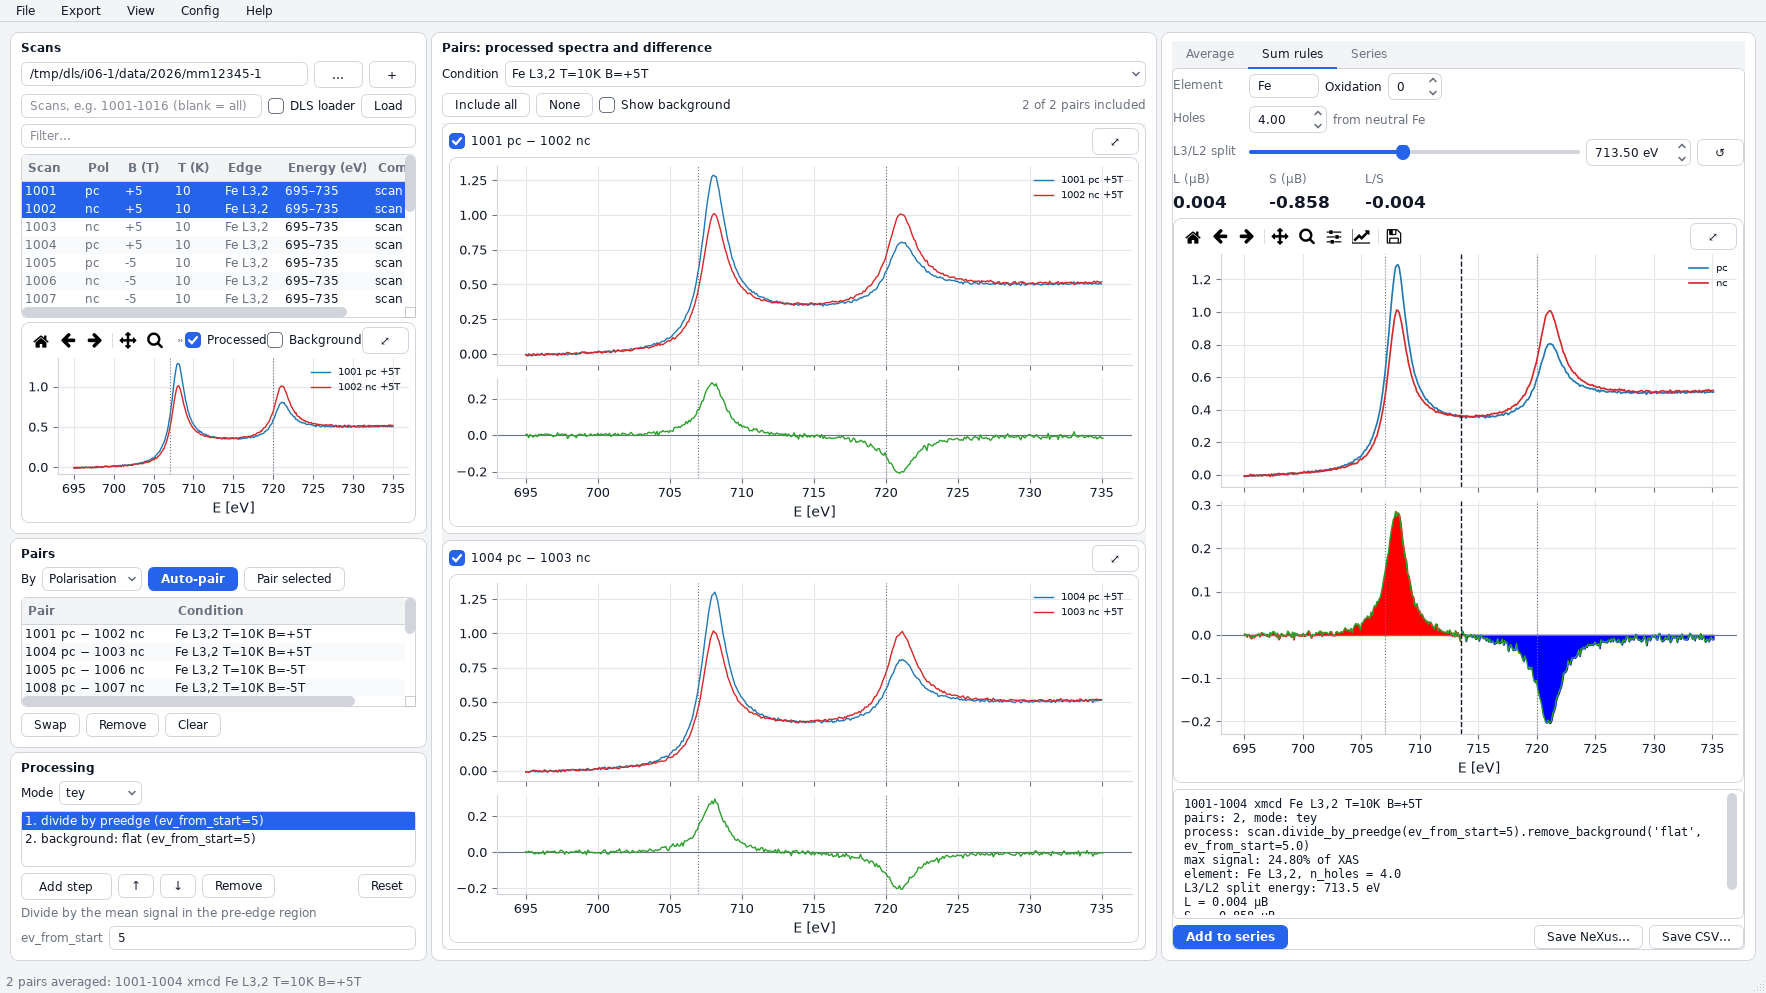
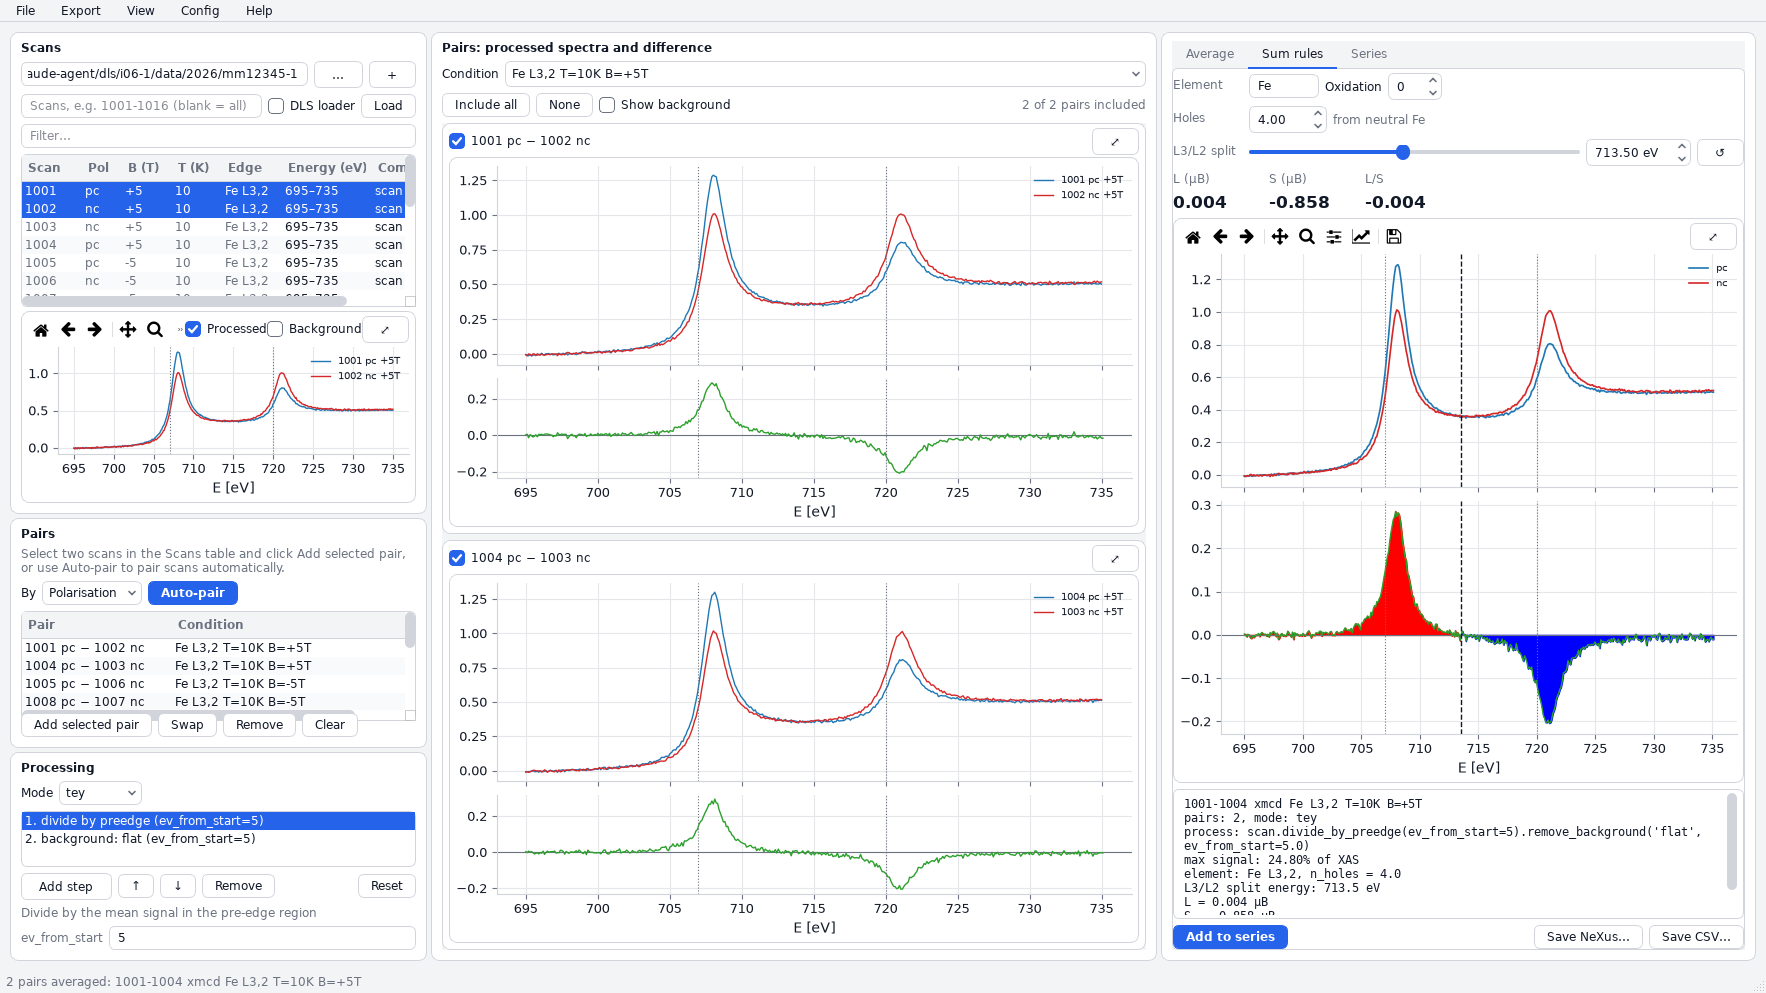
XMCD Visualiser: clearer pairing, all scans in the Average tab, DLS loader on by default
- Rename 'Pair selected' to 'Add selected pair', add tooltips, a hint and a right-click menu on the scan table
- Auto-pair uses the selected scans, or all loaded scans if fewer than two are selected
- The top plots of the Average tab show every scan of each polarisation rather than their average
- DLS loader is checked by default
- Update the detection modes as soon as pairs are made, rather than after every scan is loaded
- Size the left and right panels so they are not clipped at 1280x720

diff --git a/src/mmg_qt_dataviewer/xmcd/scans.py b/src/mmg_qt_dataviewer/xmcd/scans.py
@@ -5,7 +5,7 @@ import os
 
 from PySide6 import QtWidgets
 from PySide6.QtCore import Qt, QTimer, Signal
-from PySide6.QtGui import QBrush, QColor
+from PySide6.QtGui import QAction, QBrush, QColor
 
 from mmg_toolbox.utils.file_functions import list_files, get_scan_number
 from mmg_toolbox.utils.misc_functions import string2numbers
@@ -25,6 +25,8 @@ class ScanBrowser(QtWidgets.QWidget):
     of the selected scans. Use the arrow keys to step through the scans.
     """
     loaded = Signal()  # all scans in the table have been loaded
+    pairRequested = Signal()  # 'Add selected pair' in the right-click menu
+    autoPairRequested = Signal()
     selectionChanged = Signal()
 
     def __init__(self, folder: str = '', parent=None):
@@ -39,7 +41,8 @@ class ScanBrowser(QtWidgets.QWidget):
         self.folder.returnPressed.connect(self.reload)
         self.numbers = QtWidgets.QLineEdit(placeholderText='Scans, e.g. 1001-1016 (blank = all)')
         self.numbers.returnPressed.connect(self.reload)
-        self.dls_loader = QtWidgets.QCheckBox('DLS loader', toolTip='Read files using the beamline metadata (hdfmap)')
+        self.dls_loader = QtWidgets.QCheckBox('DLS loader', checked=True,
+                                              toolTip='Read files using the beamline metadata (hdfmap)')
         self.dls_loader.toggled.connect(lambda: (self.scans.clear(), self.reload()))
         self.search = QtWidgets.QLineEdit(placeholderText='Filter…', clearButtonEnabled=True)
         self.search.textChanged.connect(self._filter)
@@ -48,6 +51,10 @@ class ScanBrowser(QtWidgets.QWidget):
         self.tree.setHeaderLabels(COLUMNS)
         self.tree.setSelectionMode(QtWidgets.QAbstractItemView.ExtendedSelection)
         self.tree.itemSelectionChanged.connect(self._selection_changed)
+        self.tree.setToolTip('Select two scans (Ctrl+click) and right-click to add them as a pair')
+        self.tree.setContextMenuPolicy(Qt.ActionsContextMenu)
+        self.tree.addAction(QAction('Add selected pair', self.tree, triggered=self.pairRequested.emit))
+        self.tree.addAction(QAction('Auto-pair selected scans', self.tree, triggered=self.autoPairRequested.emit))
         self.tree.header().setStretchLastSection(True)
         for column, width in enumerate((60, 40, 50, 50, 60, 90)):
             self.tree.setColumnWidth(column, width)
@@ -205,7 +212,7 @@ class PairList(QtWidgets.QWidget):
         self.browser = browser
         self.by = QtWidgets.QComboBox()
         self.by.addItems(['Polarisation', 'Field'])
-        self.by.setToolTip('Pair scans with opposite polarisation at the same field,\n'
+        self.by.setToolTip('Auto-pair scans with opposite polarisation at the same field,\n'
                            'or opposite field at the same polarisation')
         self.tree = QtWidgets.QTreeWidget(rootIsDecorated=False, alternatingRowColors=True, uniformRowHeights=True)
         self.tree.setHeaderLabels(['Pair', 'Condition', ''])
@@ -217,14 +224,25 @@ class PairList(QtWidgets.QWidget):
 
         layout = QtWidgets.QVBoxLayout(self)
         layout.setContentsMargins(0, 0, 0, 0)
-        layout.addLayout(row(QtWidgets.QLabel('By'), self.by, button('Auto-pair', self.auto_pair, self, primary=True),
-                             button('Pair selected', self.pair_selected, self), None))
+        auto = button('Auto-pair', self.auto_pair, self, primary=True)
+        auto.setToolTip('Replace the pairs with pairs found automatically, by opposite polarisation or field,\n'
+                        'from the scans selected in the Scans table (or from all loaded scans if fewer\n'
+                        'than two are selected). Scans are only paired with the same element and temperature.')
+        add = button('Add selected pair', self.pair_selected, self)
+        add.setToolTip('Add the two scans selected in the Scans table (Ctrl+click to select two) as a new pair')
+        hint = QtWidgets.QLabel('Select two scans in the Scans table and click Add selected pair, '
+                                'or use Auto-pair to pair scans automatically.', objectName='muted', wordWrap=True)
+        layout.addWidget(hint)
+        layout.addLayout(row(QtWidgets.QLabel('By'), self.by, auto, None))
         layout.addWidget(self.tree)
-        layout.addLayout(row(button('Swap', self.swap, self), button('Remove', self.remove, self),
+        layout.addLayout(row(add, button('Swap', self.swap, self), button('Remove', self.remove, self),
                              button('Clear', self.clear, self), None))
 
     def auto_pair(self):
-        scans = self.browser.loaded_scans()
+        """Pair the selected scans, or all loaded scans if fewer than two are selected"""
+        scans = self.browser.selected_scans()
+        if len(scans) < 2:
+            scans = self.browser.loaded_scans()
         if not scans:
             raise ValueError('No scans are loaded')
         self.pairs[:] = [Pair(s1, s2) for s1, s2 in find_pairs(scans, self.by.currentText().lower())]

diff --git a/src/mmg_qt_dataviewer/xmcd/window.py b/src/mmg_qt_dataviewer/xmcd/window.py
@@ -54,6 +54,8 @@ class XMCDVisualiser(QtWidgets.QMainWindow):
         # wiring
         self._reprocess_timer = QTimer(self, singleShot=True, interval=300, timeout=self.reprocess)
         self.browser.loaded.connect(self._scans_loaded)
+        self.browser.pairRequested.connect(lambda: run_safely(self, self.pair_list.pair_selected))
+        self.browser.autoPairRequested.connect(lambda: run_safely(self, self.pair_list.auto_pair))
         self.pair_list.changed.connect(self._pairs_changed)
         self.pair_list.pairSelected.connect(self.grid.show_pair)
         self.chain.changed.connect(self._reprocess_timer.start)
@@ -76,6 +78,7 @@ class XMCDVisualiser(QtWidgets.QMainWindow):
         self.tabs.addTab(self.series, 'Series')
         self.middle = card(self.grid, title='Pairs: processed spectra and difference')
         self.right = card(scrollable(self.tabs))  # scrolls if the window is too short for the sum rules
+        self.right.setMinimumWidth(self.tabs.minimumSizeHint().width() + 40)  # card margins and scroll bar
         self.results_splitter = QtWidgets.QSplitter(Qt.Horizontal, childrenCollapsible=False)
         self.results_splitter.addWidget(self.middle)
         self.results_splitter.addWidget(self.right)
@@ -83,7 +86,7 @@ class XMCDVisualiser(QtWidgets.QMainWindow):
         left.setMinimumHeight(860)  # scrolls on short screens rather than squashing the scan table
         left_scroll = scrollable(left)
         left_scroll.setHorizontalScrollBarPolicy(Qt.ScrollBarAlwaysOff)
-        left_scroll.setMinimumWidth(340)
+        left_scroll.setMinimumWidth(max(340, left.minimumSizeHint().width() + 16))  # room for the scroll bar
         self.main.addWidget(left_scroll)
         self.main.addWidget(self.results_splitter)
         central = QtWidgets.QWidget()
@@ -123,7 +126,7 @@ class XMCDVisualiser(QtWidgets.QMainWindow):
         orientation = Qt.Horizontal if wide else Qt.Vertical
         if self.results_splitter.orientation() != orientation or not self.main.sizes()[0]:
             self.results_splitter.setOrientation(orientation)
-            left = max(340, int(self.width() * 0.24))
+            left = max(self.main.widget(0).minimumWidth(), int(self.width() * 0.24))
             self.main.setSizes([left, self.width() - left])
             size = self.width() - left if wide else self.height()
             self.results_splitter.setSizes([int(size * 0.55), int(size * 0.45)])
@@ -139,15 +142,21 @@ class XMCDVisualiser(QtWidgets.QMainWindow):
 
     def _scans_loaded(self):
         scans = self.browser.loaded_scans()
-        if scans:
-            modes = list(dict.fromkeys(mode for scan in scans for mode in scan.spectra))
-            self.chain.set_modes(modes, scans[0].metadata.default_mode)
+        self._update_modes(scans)
         self.statusBar().showMessage(f"{len(scans)} XAS scans loaded from {self.browser.folder.text()}")
         if scans and not self.pairs:
             run_safely(self, self.pair_list.auto_pair)
         self.browser.draw_preview()
 
+    def _update_modes(self, scans: list[SpectraContainer]):
+        """Detection modes of the scans in the Mode menu (tey, tfy…)"""
+        if scans:
+            modes = list(dict.fromkeys(mode for scan in scans for mode in scan.spectra))
+            self.chain.set_modes(modes, scans[0].metadata.default_mode)
+
     def _pairs_changed(self):
+        self._update_modes([s for pair in self.pairs for s in (pair.scan1, pair.scan2)]
+                           + self.browser.loaded_scans())
         self.grid.set_pairs(self.pairs)
         self.reprocess()
 

diff --git a/src/mmg_qt_dataviewer/xmcd/draw.py b/src/mmg_qt_dataviewer/xmcd/draw.py
@@ -68,14 +68,12 @@ def draw_pair(axes, scan1: SpectraContainer, scan2: SpectraContainer, mode: str,
 
 
 def draw_average(axes, result: Result):
-    """Each polarisation with its average, both averages, and the dichroism"""
+    """All the scans of each polarisation, both averages, and the dichroism"""
     mode, diff = result.mode, result.diff
-    for ax, average, name, colour in ((axes[0], result.pol1, diff.spectra1.name, POL1),
-                                      (axes[1], result.pol2, diff.spectra2.name, POL2)):
+    for ax, average, name in ((axes[0], result.pol1, diff.spectra1.name), (axes[1], result.pol2, diff.spectra2.name)):
         for scan in average.parents:
-            scan.spectra[mode].plot(ax, color=colour, lw=0.7, alpha=0.4, label='_')
-        average.spectra[mode].plot(ax, color=colour, lw=1.5, label=f"{name} average")
-        ax.set_title(f"{name} ({len(average.parents)} scans)", fontsize=9)
+            scan.spectra[mode].plot(ax, lw=1, label=scan_label(scan))
+        ax.set_title(f"{name}: {len(average.parents)} scans", fontsize=9)
     result.pol1.spectra[mode].plot(axes[2], color=POL1, lw=1.2, label=diff.spectra1.name)
     result.pol2.spectra[mode].plot(axes[2], color=POL2, lw=1.2, label=diff.spectra2.name)
     axes[2].set_title('Averages', fontsize=9)
@@ -85,7 +83,8 @@ def draw_average(axes, result: Result):
     for ax in axes[:4]:
         edge_lines(ax, diff)
         ax.set_xlabel('E [eV]')
-        legend(ax)
+        if len(ax.get_legend_handles_labels()[0]) <= 12:  # too many scans make the legend hide the plot
+            legend(ax)
 
 
 def draw_sum_rules(axes, result: Result, split_energy: float):

diff --git a/tests/test_qt_dataviewer.py b/tests/test_qt_dataviewer.py
@@ -229,6 +229,8 @@ def test_xmcd_visualiser(app, xas_experiment, config):
     from mmg_qt_dataviewer.xmcd.analysis import Step
 
     window = XMCDVisualiser(config, list(range(1001, 1009)), xas_experiment)
+    assert window.browser.dls_loader.isChecked()
+    window.browser.dls_loader.setChecked(False)  # the synthetic files don't have the beamline metadata
     while window.browser.is_loading():
         app.processEvents()
     app.processEvents()
@@ -264,4 +266,18 @@ def test_xmcd_visualiser(app, xas_experiment, config):
     window.pair_list.by.setCurrentText('Field')
     window.pair_list.auto_pair()
     assert all(p.is_field_pair() for p in window.pairs)
+
+    # pairs made before all scans are loaded update the modes; auto-pair uses the selected scans
+    window.pair_list.clear()
+    window.chain.mode.clear()
+    for n in range(4):
+        window.browser.tree.topLevelItem(n).setSelected(True)
+    window.pair_list.by.setCurrentText('Polarisation')
+    window.browser.autoPairRequested.emit()
+    assert len(window.pairs) == 2 and window.chain.mode.count()
+    window.browser.tree.clearSelection()
+    window.browser.tree.topLevelItem(4).setSelected(True)
+    window.browser.tree.topLevelItem(5).setSelected(True)
+    window.browser.pairRequested.emit()
+    assert len(window.pairs) == 3
     window.close()

diff --git a/src/mmg_qt_dataviewer/xmcd/grid.py b/src/mmg_qt_dataviewer/xmcd/grid.py
@@ -103,7 +103,7 @@ class PairGrid(QtWidgets.QWidget):
         self.layout_grid.setAlignment(Qt.AlignTop)
         self.scroll = QtWidgets.QScrollArea(widgetResizable=True, frameShape=QtWidgets.QFrame.NoFrame)
         self.scroll.setWidget(self.inner)
-        self.empty = QtWidgets.QLabel('Load scans, then use Auto-pair or Pair selected to compare scans here.',
+        self.empty = QtWidgets.QLabel('Load scans, then use Auto-pair or Add selected pair to compare scans here.',
                                       objectName='muted', alignment=Qt.AlignCenter, wordWrap=True)
         layout = QtWidgets.QVBoxLayout(self)
         layout.setContentsMargins(0, 0, 0, 0)

diff --git a/docs/generate_qt_ui_images.py b/docs/generate_qt_ui_images.py
@@ -87,6 +87,7 @@ def prepare(name, window):
     elif name == 'peak_fitting':
         window.fit_all()
     elif name == 'xmcd_visualiser':
+        window.browser.dls_loader.setChecked(False)  # the synthetic files don't have the beamline metadata
         while window.browser.is_loading():
             app.processEvents()
         app.processEvents()

diff --git a/src/mmg_qt_dataviewer/xmcd/results.py b/src/mmg_qt_dataviewer/xmcd/results.py
@@ -19,7 +19,7 @@ def message(plot: PlotCanvas, text: str):
 
 
 class AveragePanel(QtWidgets.QWidget):
-    """Each polarisation with its average, both averages and the dichroism"""
+    """All the scans of each polarisation, both averages and the dichroism"""
 
     def __init__(self, parent=None):
         super().__init__(parent)
